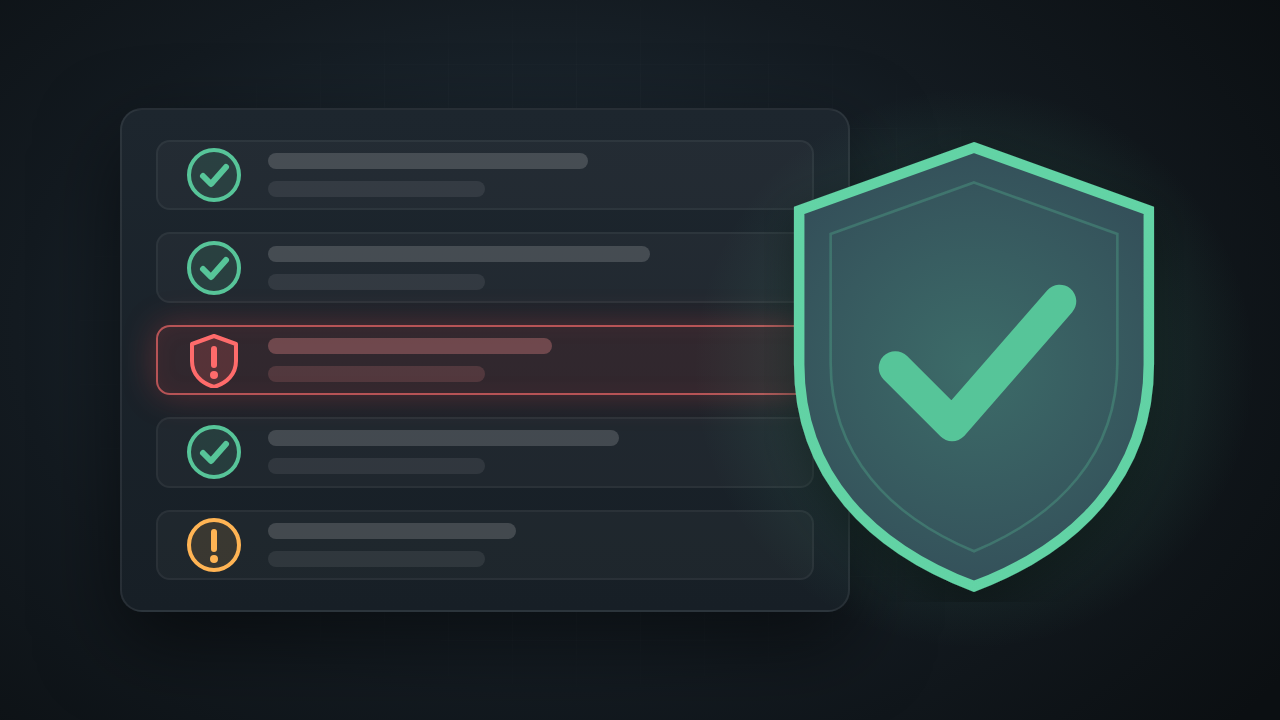
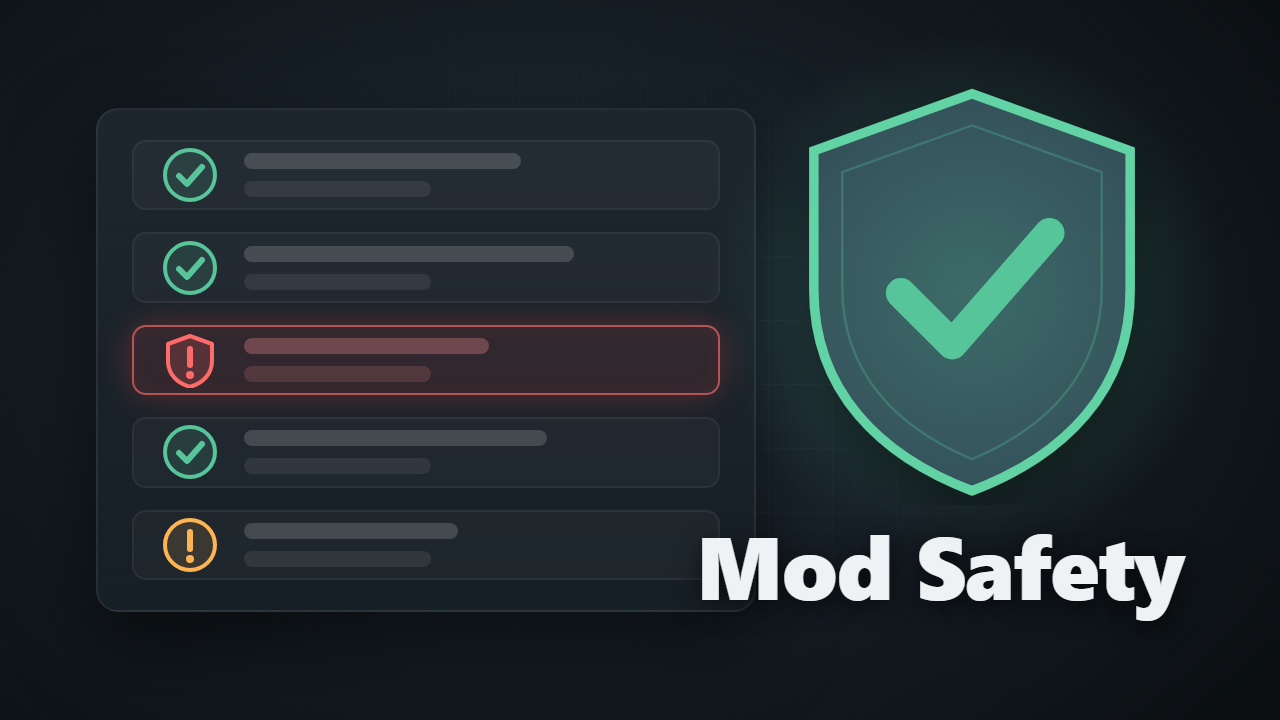
Add Mod Safety title to the thumbnail

diff --git a/nexus-page/thumbnail.html b/nexus-page/thumbnail.html
@@ -22,8 +22,8 @@
 
   /* stylized mod list card */
   .card {
-    position: absolute; left: 120px; top: 108px;
-    width: 730px; height: 504px;
+    position: absolute; left: 96px; top: 108px;
+    width: 660px; height: 504px;
     background: linear-gradient(180deg, #1d262e 0%, #171f26 100%);
     border: 2px solid rgba(255,255,255,0.07);
     border-radius: 22px;
@@ -59,12 +59,19 @@
   .status { flex-shrink: 0; width: 56px; height: 56px; }
 
   /* big shield overlapping the card */
-  .shield-wrap { position: absolute; right: 96px; top: 130px; }
+  .shield-wrap { position: absolute; right: 118px; top: 78px; }
   .shield-glow {
     position: absolute; left: 50%; top: 50%;
-    width: 640px; height: 640px;
+    width: 600px; height: 600px;
     transform: translate(-50%, -50%);
     background: radial-gradient(circle, rgba(87,197,153,0.28) 0%, transparent 62%);
+  }
+  .title {
+    position: absolute; right: 60px; top: 520px;
+    width: 560px; text-align: center;
+    font-size: 88px; font-weight: 800; letter-spacing: -1px;
+    color: #eef2f5; line-height: 1;
+    text-shadow: 0 6px 26px rgba(0,0,0,0.65);
   }
 </style>
 </head>
@@ -94,9 +101,11 @@
     </div>
   </div>
 
+  <div class="title">Mod Safety</div>
+
   <div class="shield-wrap">
     <div class="shield-glow"></div>
-    <svg width="420" height="472" viewBox="0 0 480 540" fill="none" xmlns="http://www.w3.org/2000/svg">
+    <svg width="380" height="427" viewBox="0 0 480 540" fill="none" xmlns="http://www.w3.org/2000/svg">
       <defs>
         <linearGradient id="sg" x1="0" y1="0" x2="480" y2="540">
           <stop offset="0%" stop-color="#334a57"/>